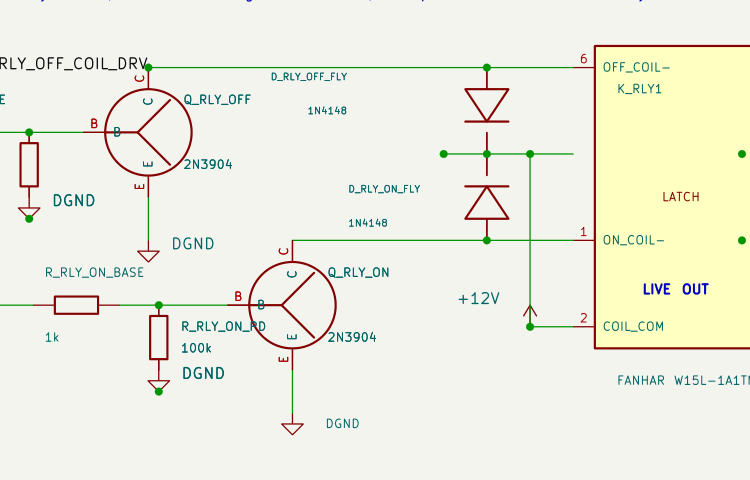
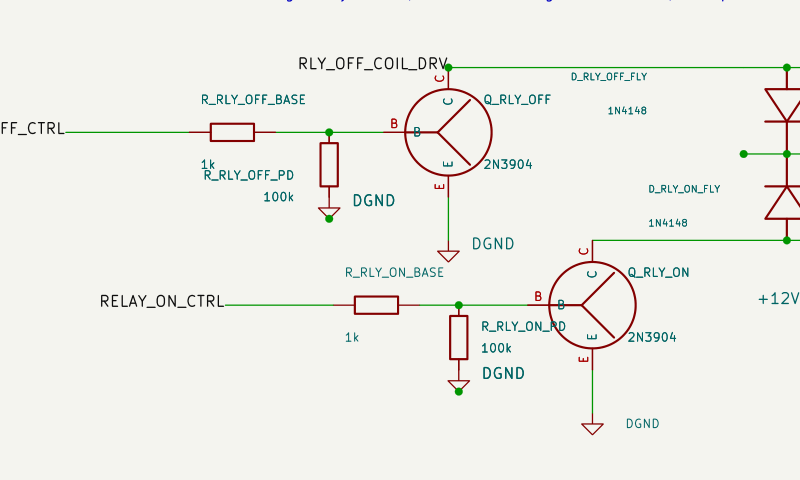
Remove relay diode lead protrusion

diff --git a/docs/schematic-review/metering_core/visual-clearance-audit-results.md b/docs/schematic-review/metering_core/visual-clearance-audit-results.md
@@ -18,9 +18,12 @@ Latest follow-up pass:
      like duplicated `K K` labels on the common rail.
    - Restored the flyback diode body geometry to a normal diode symbol after a
      failed stub-removal attempt had distorted it into an hourglass/X shape.
+   - Removed the remaining red diode pin lead protrusion above the relay rail by
+     keeping the electrical terminal on the rail and drawing the visible diode
+     lead only inside the symbol span.
    - Shortened the MCU island title and raised the top `+3.3V` text so it no
      longer collides with `LQFP64`/VDD pin text.
-   - Check images: `METERING_CORE_color_review_relay_diode_restored_zoom.png`,
+   - Check images: `METERING_CORE_color_review_relay_diode_clean_leads.png`,
      `METERING_CORE_color_review_mcu_3v3_text_fix.png`.
 
 1. MCU bottom ground ports

diff --git a/docs/automation/schematic-style-guide.md b/docs/automation/schematic-style-guide.md
@@ -181,6 +181,10 @@ rubric when reviewing schematic-related changes.
      recognizable as a normal diode symbol. Fix visual issues by moving the
      diode, moving labels, hiding package-only pin names, or redrawing local
      wires, not by stretching the diode body into an X/hourglass shape.
+   - Diode pin leads must not protrude beyond the relay rail they connect to.
+     If a custom symbol is needed, keep the electrical pin terminal on the rail
+     and draw any visible lead only inside the diode body span. A red lead stub
+     sticking above or below the green rail is a visual failure.
 
 17. Power-port text clearance
    - Power-port text such as `+3.3V`, `+5V`, and `+12V` must not overlap IC